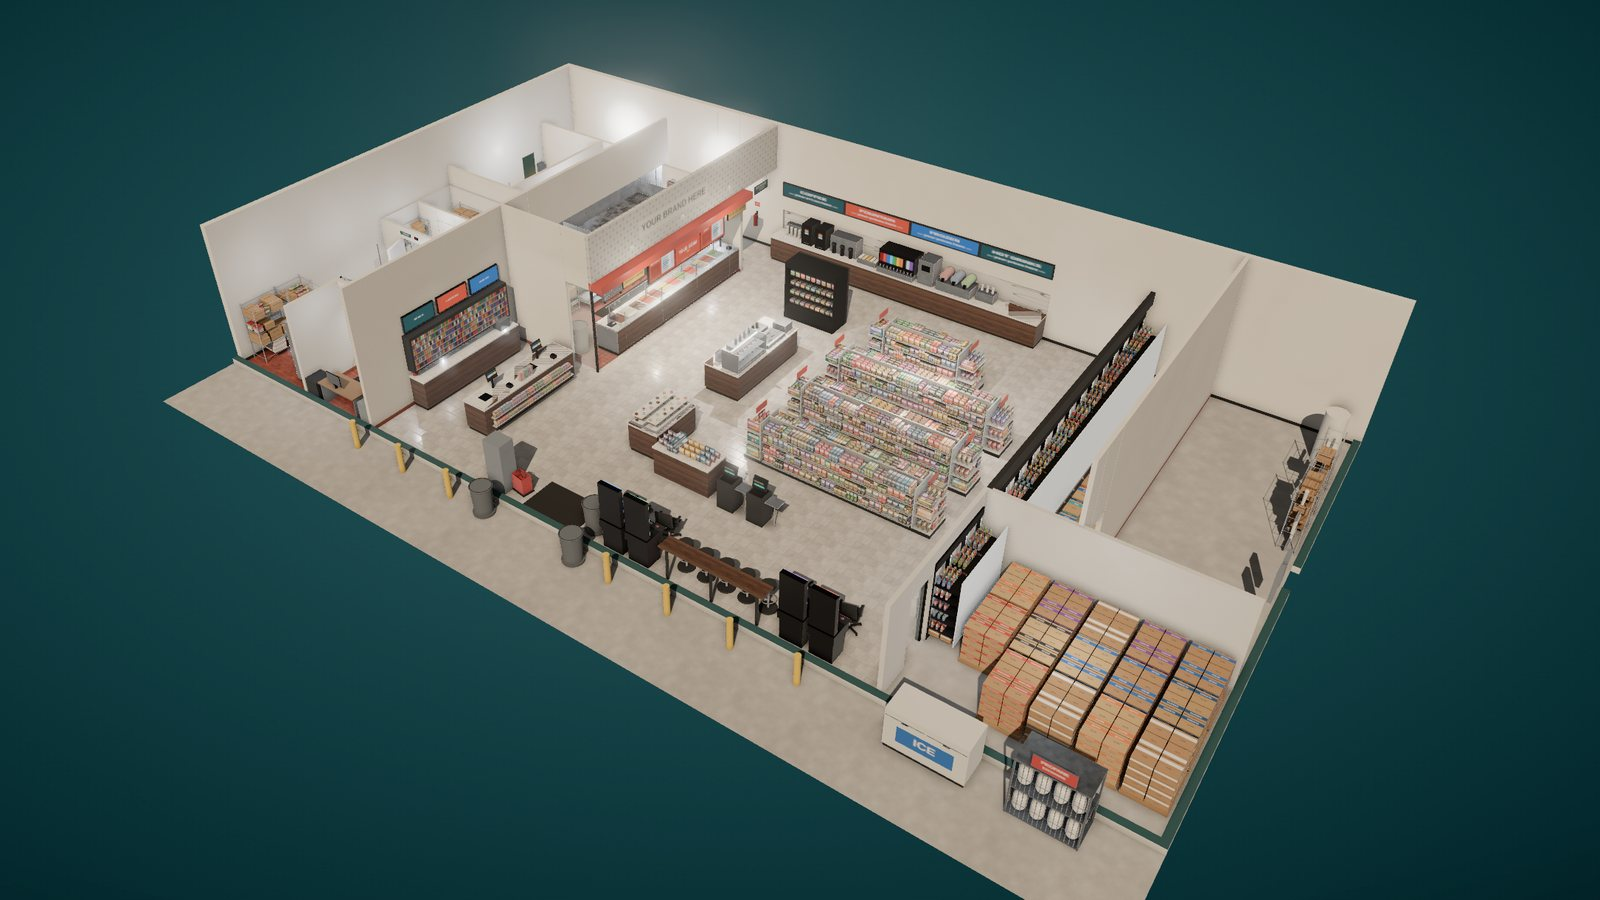
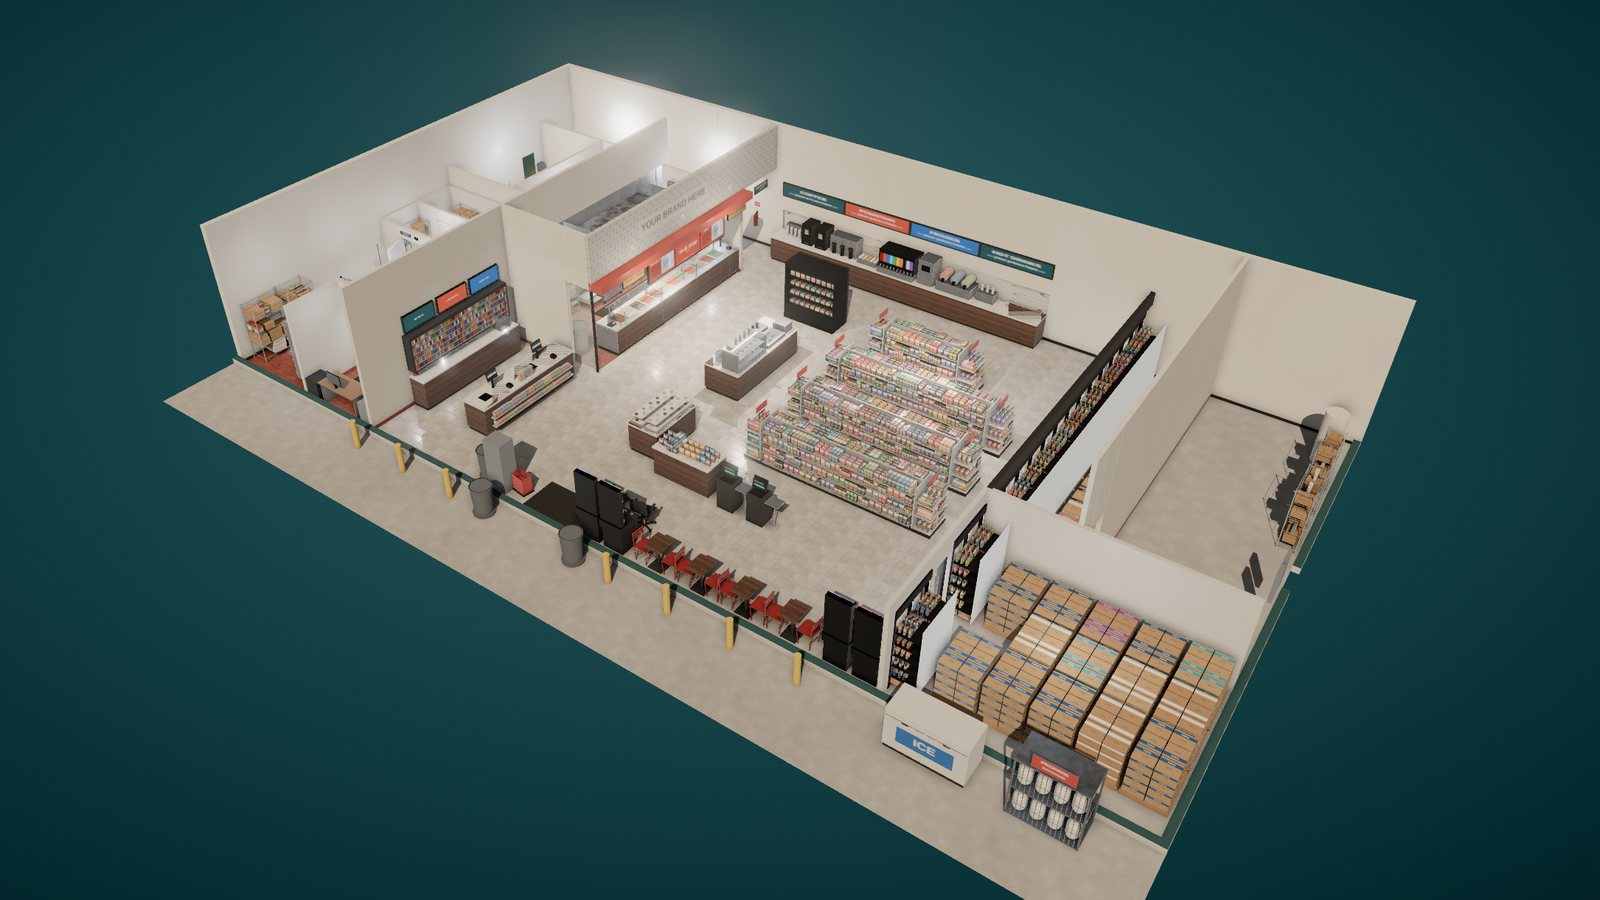
Judson kitchen page: beer cave door between glass doors, window tables
- Beer cave: the walk-in door now sits between glass cooler doors, two
  on each side (owner).
- Window counter removed (it stuck out too far); four two-person tables
  against the glass with a red metal chair at each end, between the two
  pairs of skill-game machines (owner). Trash can moved by the ATM.

Claude-Session: https://claude.ai/code/session_01N4dxibyXiBP7UkFD2e3Gex

diff --git a/shortstop-judson/kitchen3d.js b/shortstop-judson/kitchen3d.js
@@ -48,8 +48,11 @@ const VAULT_X = px(72.6);
 // right, all the way to the wall, is the beer cave and its door). Its glass door is on the side
 // facing the entrance, near the front, at the end of the aisle along the windows; three glass
 // reach-in doors sit beside it on the same face. door and reach are z ranges on x = VAULT_X.
-const CAVE = { x0: VAULT_X, x1: X1, z0: pz(35), z1: Z1, door: [Z1 - 1.95, Z1 - 1.0] };
-CAVE.reach = [CAVE.door[0] - 0.1 - 3 * 0.76, CAVE.door[0] - 0.1];
+const CAVE = { x0: VAULT_X, x1: X1, z0: pz(35), z1: Z1 };
+// owner: the walk-in door sits between glass cooler doors, two on each side
+CAVE.reachN = [CAVE.z0 + 0.12, CAVE.z0 + 0.12 + 2 * 0.76];
+CAVE.door = [CAVE.reachN[1] + 0.08, CAVE.reachN[1] + 1.03];
+CAVE.reachS = [CAVE.door[1] + 0.08, CAVE.door[1] + 0.08 + 2 * 0.76];
 // Light fixtures (shared by the geometry and the lights): pendant strip rows over the sales
 // floor, 2 x 4 lay-in troffers in the back of house, restrooms and hallway.
 const PENDANT_ROWS = [9, 17, 25, 33, 41].map((f) => {
@@ -87,8 +90,8 @@ const ITEMS = {
   checkout: { zone: 'store', name: 'Store checkout', lines: ['Registers, with a tobacco and lottery back bar', 'Beside the restaurant counter, near the front doors'], size: '12 ft counter' },
   bevbar: { zone: 'store', name: 'Coffee and fountain bar', lines: ['Coffee brewers, fountain and frozen drinks along the back wall'], size: 'About 32 ft long' },
   hotfood: { zone: 'store', name: 'Hot food island', lines: ['Self-serve hot case, roller grill and condiments'], size: 'Island' },
-  coldvault: { zone: 'store', name: 'Cold vault', lines: ['Glass cooler doors along the east wall', 'Walk-in beer cave in the front-right corner: its door is at the end of the aisle along the windows, with three more glass doors beside it'], size: '16 doors' },
-  seating: { zone: 'store', name: 'Window seating', lines: ['Counter seating with stools along the front windows'], size: '5 seats' },
+  coldvault: { zone: 'store', name: 'Cold vault', lines: ['Glass cooler doors along the east wall', 'Walk-in beer cave in the front-right corner, at the end of the aisle along the windows: its door sits between glass cooler doors'], size: '17 doors' },
+  seating: { zone: 'store', name: 'Window seating', lines: ['Four two-person tables along the front windows, red metal chairs', 'Between the skill-game machines'], size: '8 seats' },
   restrooms: { zone: 'store', name: 'Restrooms', lines: ["Men's and women's restrooms off the side hallway"], size: '2 rooms' },
   entrance: { zone: 'store', name: 'Front entrance', lines: ['Double glass doors facing the fuel islands'], size: '6 ft' },
   doorway: { zone: 'doors', name: 'Doorway to the back room', lines: ['From the kitchen straight into prep, wash-up and the walk-ins'], size: '36 in' },
@@ -903,6 +906,7 @@ function makeMaterials(X) {
   M.towel = std({ color: 0xf1efe8, roughness: 0.95 });
   M.car = [0x1d3557, 0xb9bec2, 0x7d1d1d, 0x2b2d30].map((c) => phys({ color: c, metalness: 0.55, roughness: 0.28, clearcoat: 1, clearcoatRoughness: 0.06 }));
   M.tire = std({ color: 0x18191a, roughness: 0.85 });
+  M.redMetal = phys({ color: 0xb3221a, metalness: 0.55, roughness: 0.32, clearcoat: 0.6, clearcoatRoughness: 0.2 });
   for (const m of [M.steel, M.steelV, M.steelDark, M.steelIn, M.chrome, M.alum]) METALS.add(m);
   // Floors: the captured environment would otherwise mirror the bright store evenly across the
   // floor, and reflections ignore shadows; keep them as a soft sheen so cast shadows read.
@@ -2047,6 +2051,31 @@ function skillMachine(M, accentHex, seed) {
   screen(g, signTexture(['TAKE', 'TICKET'], { w: 128, h: 128, bg: '#1a1a1a', fg: '#ffffff', size: 34, print: false }), 0.07, 0.07, -0.17, 0.87, D / 2 + 0.004);
   return g;
 }
+// Two-person cafe table: wood-look top on a black pedestal.
+function cafeTable(M, p, x, z) {
+  const g = new THREE.Group(); g.position.set(x, 0, z); p.add(g);
+  B(g, M.blackPaint, 0.42, 0.025, 0.42, 0, 0, 0);
+  C(g, M.blackPaint, 0.035, 0.035, 0.72, 0, 0.025, 0, 12);
+  B(g, M.blackPaint, 0.36, 0.03, 0.36, 0, 0.705, 0);
+  B(g, M.woodPanel, 0.5, 0.03, 0.6, 0, 0.735, 0);
+  return g;
+}
+// Red powder-coated steel cafe chair (four splayed legs, ribbed back), facing +z.
+function redChair(M, p, x, z, ry) {
+  const g = new THREE.Group(); g.position.set(x, 0, z); g.rotation.y = ry; p.add(g);
+  const red = M.redMetal;
+  for (const sx of [-1, 1]) for (const sz of [-1, 1]) {
+    const leg = addMesh(g, new THREE.CylinderGeometry(0.011, 0.013, 0.46, 8), red, sx * 0.18, 0.23, sz * 0.18, sz * 0.07, 0, -sx * 0.07);
+    leg.castShadow = true;
+  }
+  for (const [w, d, zz] of [[0.34, 0.012, 0.15], [0.34, 0.012, -0.15]]) B(g, red, w, 0.012, d, 0, 0.17, zz);
+  B(g, red, 0.4, 0.025, 0.4, 0, 0.44, 0);
+  B(g, red, 0.4, 0.035, 0.012, 0, 0.43, 0.2);
+  const back = new THREE.Group(); back.position.set(0, 0.46, -0.19); back.rotation.x = -0.1; g.add(back);
+  for (const sx of [-1, 1]) B(back, red, 0.02, 0.4, 0.02, sx * 0.18, 0, 0);
+  for (let i = 0; i < 3; i++) B(back, red, 0.36, 0.05, 0.012, 0, 0.18 + i * 0.075, 0);
+  return g;
+}
 // Black mesh office chair on a five-star base.
 function officeChair(M, p, x, z, ry) {
   const g = new THREE.Group(); g.position.set(x, 0, z); g.rotation.y = ry; p.add(g);
@@ -2317,7 +2346,7 @@ function buildKitchen(M, X) {
   // east side: cooler vault behind the main run of doors, utility room behind it; the beer cave
   // is a walk-in box in the front-right corner, entered from the aisle along the windows
   iwall('x', CAVE.z0, CAVE.x0, X1, [], 2.75, M.walkin, null);
-  iwall('z', CAVE.x0, CAVE.z0, Z1, [{ a: CAVE.reach[0], b: CAVE.reach[1], y0: 0, y1: 2.36 }, { a: CAVE.door[0], b: CAVE.door[1], y0: 0, y1: 2.13 }], 2.75, M.walkin, null);
+  iwall('z', CAVE.x0, CAVE.z0, Z1, [{ a: CAVE.reachN[0], b: CAVE.reachN[1], y0: 0, y1: 2.36 }, { a: CAVE.door[0], b: CAVE.door[1], y0: 0, y1: 2.13 }, { a: CAVE.reachS[0], b: CAVE.reachS[1], y0: 0, y1: 2.36 }], 2.75, M.walkin, null);
   iwall('z', px(80), Z0, CAVE.z0, [{ a: pz(30), b: pz(33), y0: 0, y1: 2.13 }], H_DECK);
   worldBox(main, M.blackPaint, VAULT_X - 0.02, VAULT_X + 0.12, 2.36, 2.75, Z0, CAVE.z0).castShadow = false;
   worldBox(main, M.walkin, VAULT_X - 0.02, VAULT_X + 0.1, 0, 2.36, pz(1.5) + COOLER_RUN.len + 0.04, CAVE.z0 - IW / 2, 0.6).castShadow = false;
@@ -2502,18 +2531,25 @@ function buildKitchen(M, X) {
   // two more machines near the beer cave (each with a chair)
   {
     const xd = px(43.5), z = Z1 - 0.42;
-    const sx = [xd + 1.23, xd + 2.03, xd + 6.47, xd + 7.27], acc = [0x2f7bff, 0x22e07a, 0xb04dff, 0xff3a2a];
+    const sx = [xd + 0.47, xd + 1.23, xd + 7.64, xd + 8.4], acc = [0x2f7bff, 0x22e07a, 0xb04dff, 0xff3a2a];
     sx.forEach((x, i) => {
       const m = skillMachine(M, acc[i], 31 + i * 7); put(main, m, x, z, Math.PI); shadowsFor.push([m, 0.03]);
       officeChair(M, main, x + (i % 2 ? 0.05 : -0.06), Z1 - 1.32, Math.PI + (i % 2 ? 0.25 : -0.18));
     });
   }
-  const se = seatingCounter(M, 3.0, 5); put(main, se, px(43.5) + 4.25, Z1 - 0.05, Math.PI); reg('seating', se, { face: [0, 0, -1] });
+  const se = new THREE.Group(); main.add(se);
+  for (let k = 0; k < 4; k++) {
+    const tx = px(43.5) + 2.5 + k * 1.29, tz = Z1 - 0.4;
+    cafeTable(M, se, tx, tz);
+    redChair(M, se, tx - 0.43, tz, Math.PI / 2 + (k % 2 ? 0.06 : -0.05));
+    redChair(M, se, tx + 0.43, tz, -Math.PI / 2 + (k % 2 ? -0.08 : 0.04));
+  }
+  reg('seating', se, { face: [0, 0, -1] }); shadowsFor.push([se, 0.02]);
   const co = checkoutCounter(M, P, r, 3.6); put(main, co, -5.85, 4.2, Math.PI / 2); reg('checkout', co, { face: [1, 0, 0] }); shadowsFor.push([co, 0.03]);
   const bbk = backBar(M, 3.8); put(main, bbk, px(19) + IW / 2, 4.2, Math.PI / 2); shadowsFor.push([bbk, 0.02]);
   B(main, M.paintGrey, 0.6, 1.55, 0.5, px(34.5), 0, Z1 - 0.4);
   screen(main, screenTexture(96, 64, (c) => { c.fillStyle = '#0e1a1c'; c.fillRect(0, 0, 96, 64); c.fillStyle = '#3bb3a0'; c.font = 'bold 18px Arial'; c.fillText('ATM', 30, 38); }), 0.3, 0.2, px(34.5), 1.2, Z1 - 0.651, Math.PI);
-  trashCan(M, px(43.5) + 0.36, Z1 - 0.52, M.greyPlastic, main);
+  trashCan(M, px(32.6), Z1 - 0.5, M.greyPlastic, main);
   basketStack(M, main, px(36.3), Z1 - 0.55, -0.15);
 
   // cold vault: main run of doors along the east wall
@@ -2529,14 +2565,14 @@ function buildKitchen(M, X) {
     worldBox(main, M.coolerFrame, xf - 0.08, xf + 0.04, 2.12, 2.2, a, b);
     worldBox(main, M.glass, xf - 0.02, xf, 0.05, 2.1, a + 0.06, b - 0.06).castShadow = false;
     B(main, M.chrome, 0.03, 0.6, 0.03, xf - 0.05, 0.8, a + 0.16);
-    screen(main, signTexture(['BEER CAVE'], { w: 512, h: 128, bg: '#16302f', fg: '#eebe54', size: 70 }), 1.5, 0.34, xf - 0.065, 2.555, (CAVE.reach[0] + b) / 2, -Math.PI / 2);
-    const cv1 = coolerRun(M, P, r, 3); put(main, cv1, CAVE.x0, (CAVE.reach[0] + CAVE.reach[1]) / 2, -Math.PI / 2);
+    screen(main, signTexture(['BEER CAVE'], { w: 512, h: 128, bg: '#16302f', fg: '#eebe54', size: 70 }), 1.5, 0.34, xf - 0.065, 2.555, (a + b) / 2, -Math.PI / 2);
+    for (const run of [CAVE.reachN, CAVE.reachS]) { const cv = coolerRun(M, P, r, 2); put(main, cv, CAVE.x0, (run[0] + run[1]) / 2, -Math.PI / 2); }
   }
   // behind the doors: cases in the vault, pallets in the beer cave
   for (let zc = pz(2.5); zc < pz(33); zc += 0.6) for (let k = 0; k < 3; k++) P.add('case', main, VAULT_X + 1.3 + (k % 2) * 0.5, k * 0.3, zc, 0.42, 0.28, 0.5, Math.floor(r() * 16));
   for (let xi = 0; xi < 5; xi++) for (let zi = 0; zi < 3; zi++) {
     const bx = CAVE.x0 + 1.45 + xi * 1.05, bz = CAVE.z0 + 0.85 + zi * 1.25;
-    if (xi === 0 && zi === 2) continue;   // keep the way in from the door clear
+    if (xi === 0 && zi === 1) continue;   // keep the way in from the door clear
     B(main, M.wood, 1.0, 0.13, 1.2, bx, 0, bz);
     const c = Math.floor(r() * 16);
     for (let h2 = 0; h2 < 4; h2++) for (let i = 0; i < 2; i++) for (let j = 0; j < 3; j++) P.add('case', main, bx - 0.24 + i * 0.48, 0.13 + h2 * 0.26, bz - 0.4 + j * 0.4, 0.46, 0.25, 0.38, c, (j % 2) * Math.PI);
@@ -3026,7 +3062,7 @@ async function create(host) {
   } else TROFFERS.forEach(([x, z], i) => pt(COOL, i < 5 ? 2.5 : 8, 7, x, H_ACT - 0.3, z));
   // the glow of the cooler doors spilling onto the floor in front of them
   rect(0xe6f1ff, 0.7, COOLER_RUN.len - 0.2, 1.8, VAULT_X - 0.12, 1.15, COOLER_RUN.z, 'west');
-  if (!mobile) pt(0xe6f1ff, 1.2, 4, CAVE.x0 - 0.5, 1.2, (CAVE.reach[0] + CAVE.reach[1]) / 2);
+  if (!mobile) pt(0xe6f1ff, 1.4, 5, CAVE.x0 - 0.5, 1.2, (CAVE.door[0] + CAVE.door[1]) / 2);
   pt(0xeef4ff, 4, 8, (CAVE.x0 + CAVE.x1) / 2, 2.45, (CAVE.z0 + CAVE.z1) / 2);
   { const pl = new THREE.PointLight(0xf2f6ff, 2.2, 3.4, 1.5); pl.position.set((WALKIN.x0 + WALKIN.x1) / 2, WALKIN.h - 0.3, (WALKIN.split + WALKIN.z1) / 2); scene.add(pl); }
 

diff --git a/shortstop-judson/README.md b/shortstop-judson/README.md
@@ -55,13 +55,13 @@ the building was built to (about 93 x 50 ft, storefront on the south):
 - east wall: 13 glass cooler doors with the vault behind and a utility room
   at the back corner;
 - the walk-in beer cave fills the front-right corner, against the front wall.
-  Its glass door faces the entrance near the windows, so from the front
-  doors you look right along the window aisle straight to it; three more
-  glass cooler doors sit beside the door under the BEER CAVE sign.
+  It faces the entrance, so from the front doors you look right along the
+  window aisle straight to it; its walk-in door sits between glass cooler
+  doors, two on each side, under the BEER CAVE sign (owner).
 - along the front windows from the doors to the beer cave (owner): two
-  skill-game machines side by side near the doors, the window table with
-  stools, then two more machines near the beer cave, each with an office
-  chair. The screens are generic ("SKILL GAMES", prize panels, game tiles);
+  skill-game machines side by side near the doors, four two-person tables
+  against the glass with a red metal chair at each end, then two more
+  machines near the beer cave, each machine with an office chair. The screens are generic ("SKILL GAMES", prize panels, game tiles);
   no game or maker names. No crypto ATM (owner).
 
 Owner-confirmed (standing at the front doors, looking in): kitchen and its
